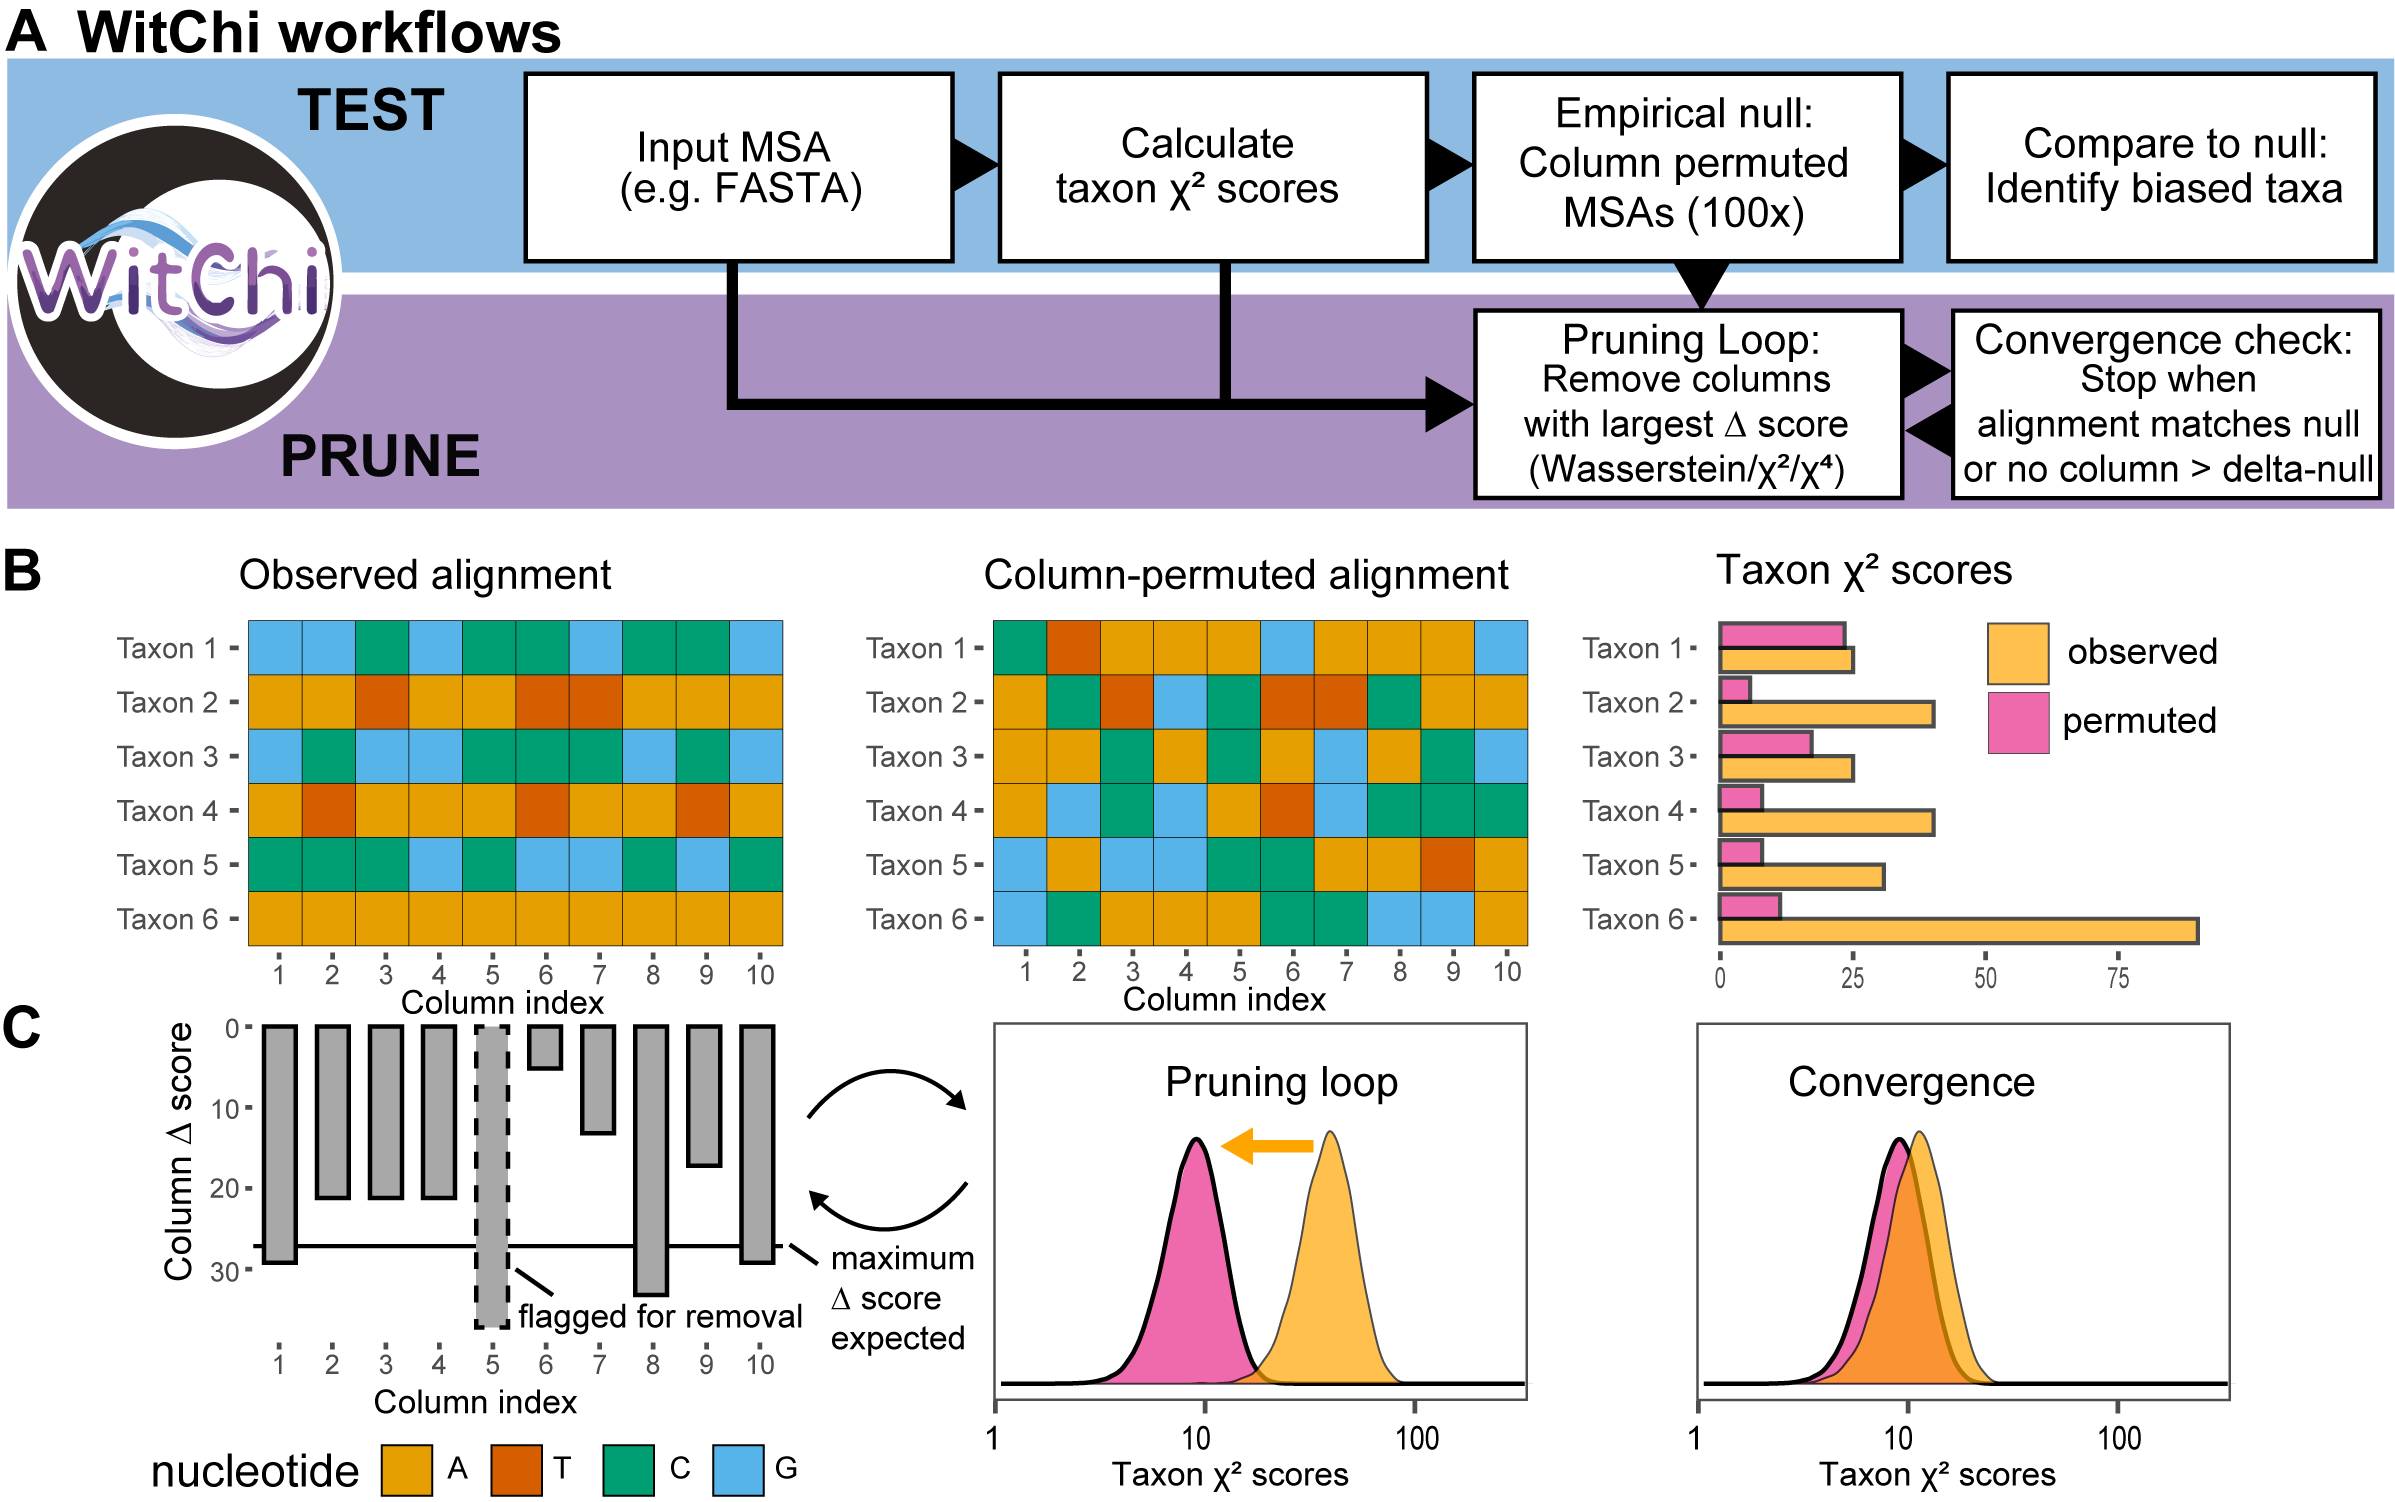
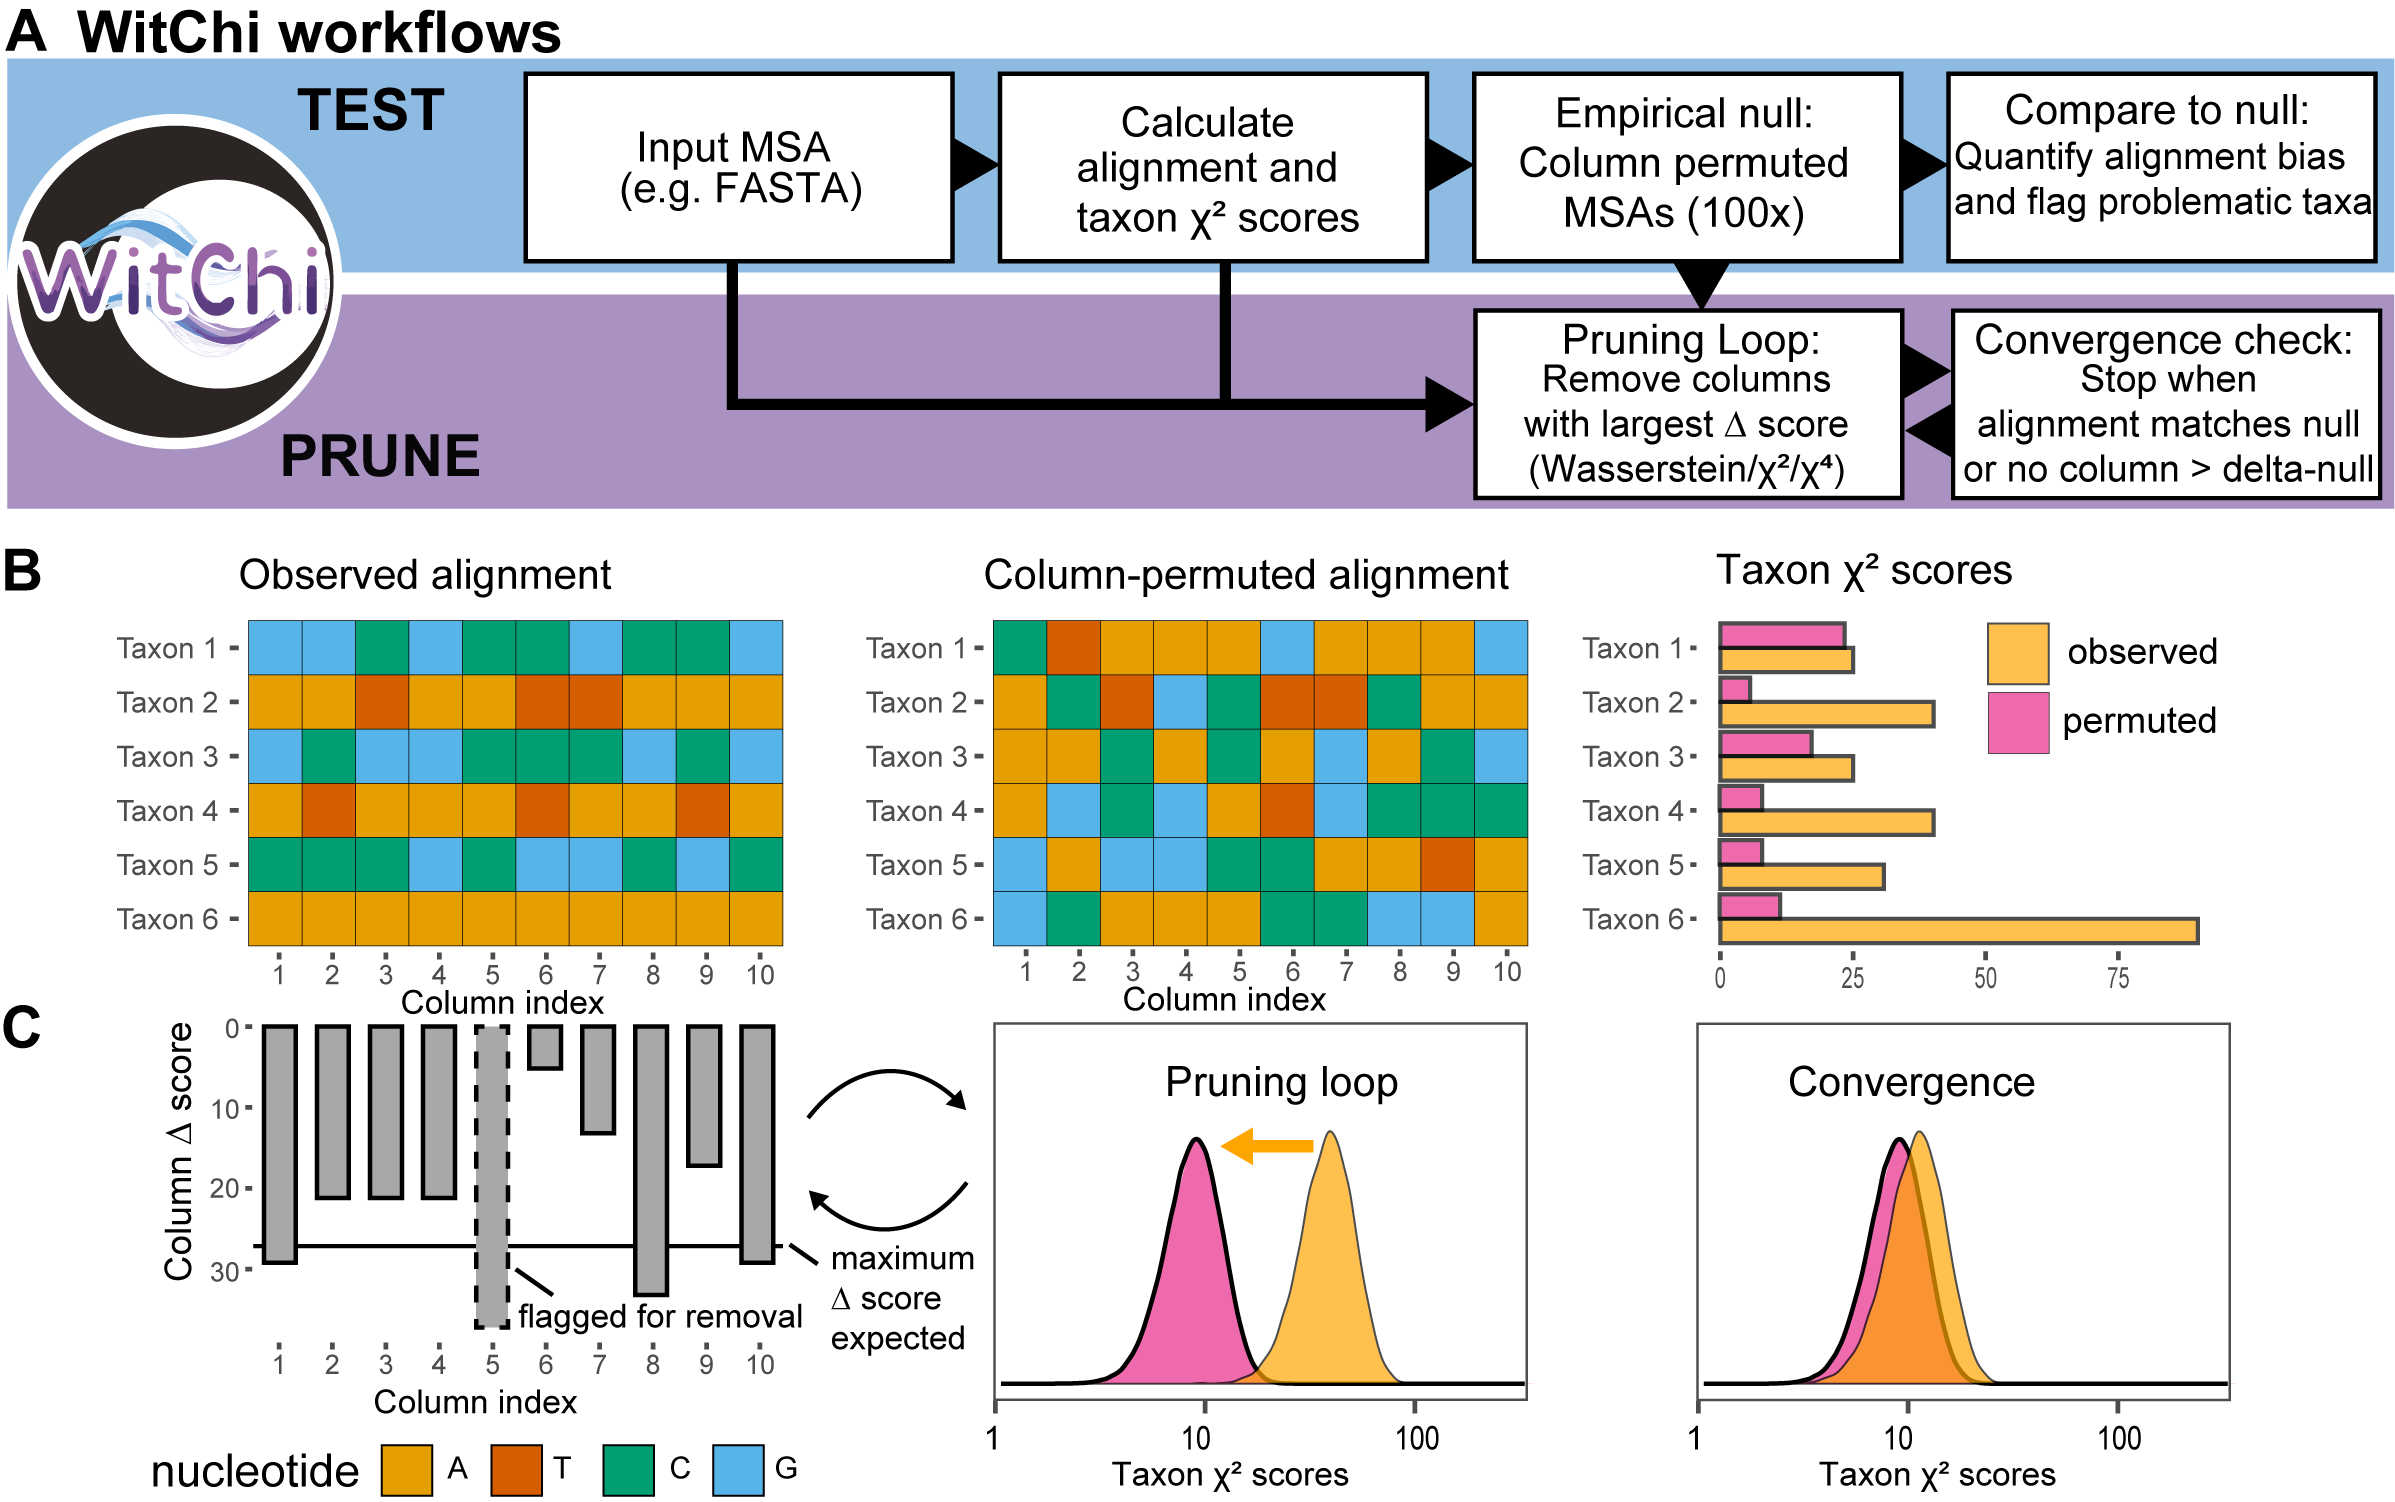
docs: clarify per-taxon vs alignment-level p-values in Fig 1
Per-taxon p-values are sensitive to uneven branch lengths in the tree
(diagnostic); the alignment-level p-value is the accurate measure of
whole-alignment bias.

Changed region(s): [[0.8033, 0.0613, 0.9887, 0.1531], [0.4326, 0.0613, 0.5871, 0.1531]]

diff --git a/README.md b/README.md
@@ -13,7 +13,7 @@ WitChi detects and prunes compositionally biased columns in multiple sequence al
 
 ![WitChi workflow overview](docs/Fig1.png)
 
-Overview of the WitChi workflows for detecting and reducing compositional bias in multiple sequence alignments. (A) The TEST workflow computes taxon-specific χ² scores and establishes an empirical null distribution by column permutation (100× default, configurable) to identify biased taxa. The PRUNE workflow iteratively removes the most biased columns — scored by Wasserstein-1 distance on Z-score quantiles (default), or Δχ²/Δχ⁴ — and a convergence check stops pruning when the alignment matches the null or no column's Δ exceeds the per-column (delta-null) expectation. (B) Example observed MSA and one corresponding column-permuted MSA, illustrating how taxon-specific biases are homogenised while preserving global composition; the bar plot compares taxon χ² scores between the observed and permuted alignments. (C) Left: per-column Δ scores, with the maximum Δ expected under a homogeneous alignment marked (horizontal line) and an example column flagged for removal (dashed box). Right: density distributions of taxon-specific χ² scores before and during the pruning loop, showing how pruning shifts scores toward the null until the alignment converges (right panel).
+Overview of the WitChi workflows for detecting and reducing compositional bias in multiple sequence alignments. (A) The TEST workflow computes taxon-specific χ² scores against an empirical null from column permutation (100× default, configurable). Per-taxon empirical p-values flag problematic taxa but are diagnostic — sensitive to uneven branch lengths in the underlying tree — whereas the alignment-level empirical p-value is accurate and measures whether the alignment as a whole is biased. The PRUNE workflow iteratively removes the most biased columns — scored by Wasserstein-1 distance on Z-score quantiles (default), or Δχ²/Δχ⁴ — and a convergence check stops pruning when the alignment matches the null or no column's Δ exceeds the per-column (delta-null) expectation. (B) Example observed MSA and one corresponding column-permuted MSA, illustrating how taxon-specific biases are homogenised while preserving global composition; the bar plot compares taxon χ² scores between the observed and permuted alignments. (C) Left: per-column Δ scores, with the maximum Δ expected under a homogeneous alignment marked (horizontal line) and an example column flagged for removal (dashed box). Right: density distributions of taxon-specific χ² scores before and during the pruning loop, showing how pruning shifts scores toward the null until the alignment converges (right panel).
 
 ## Installation
 ```bash